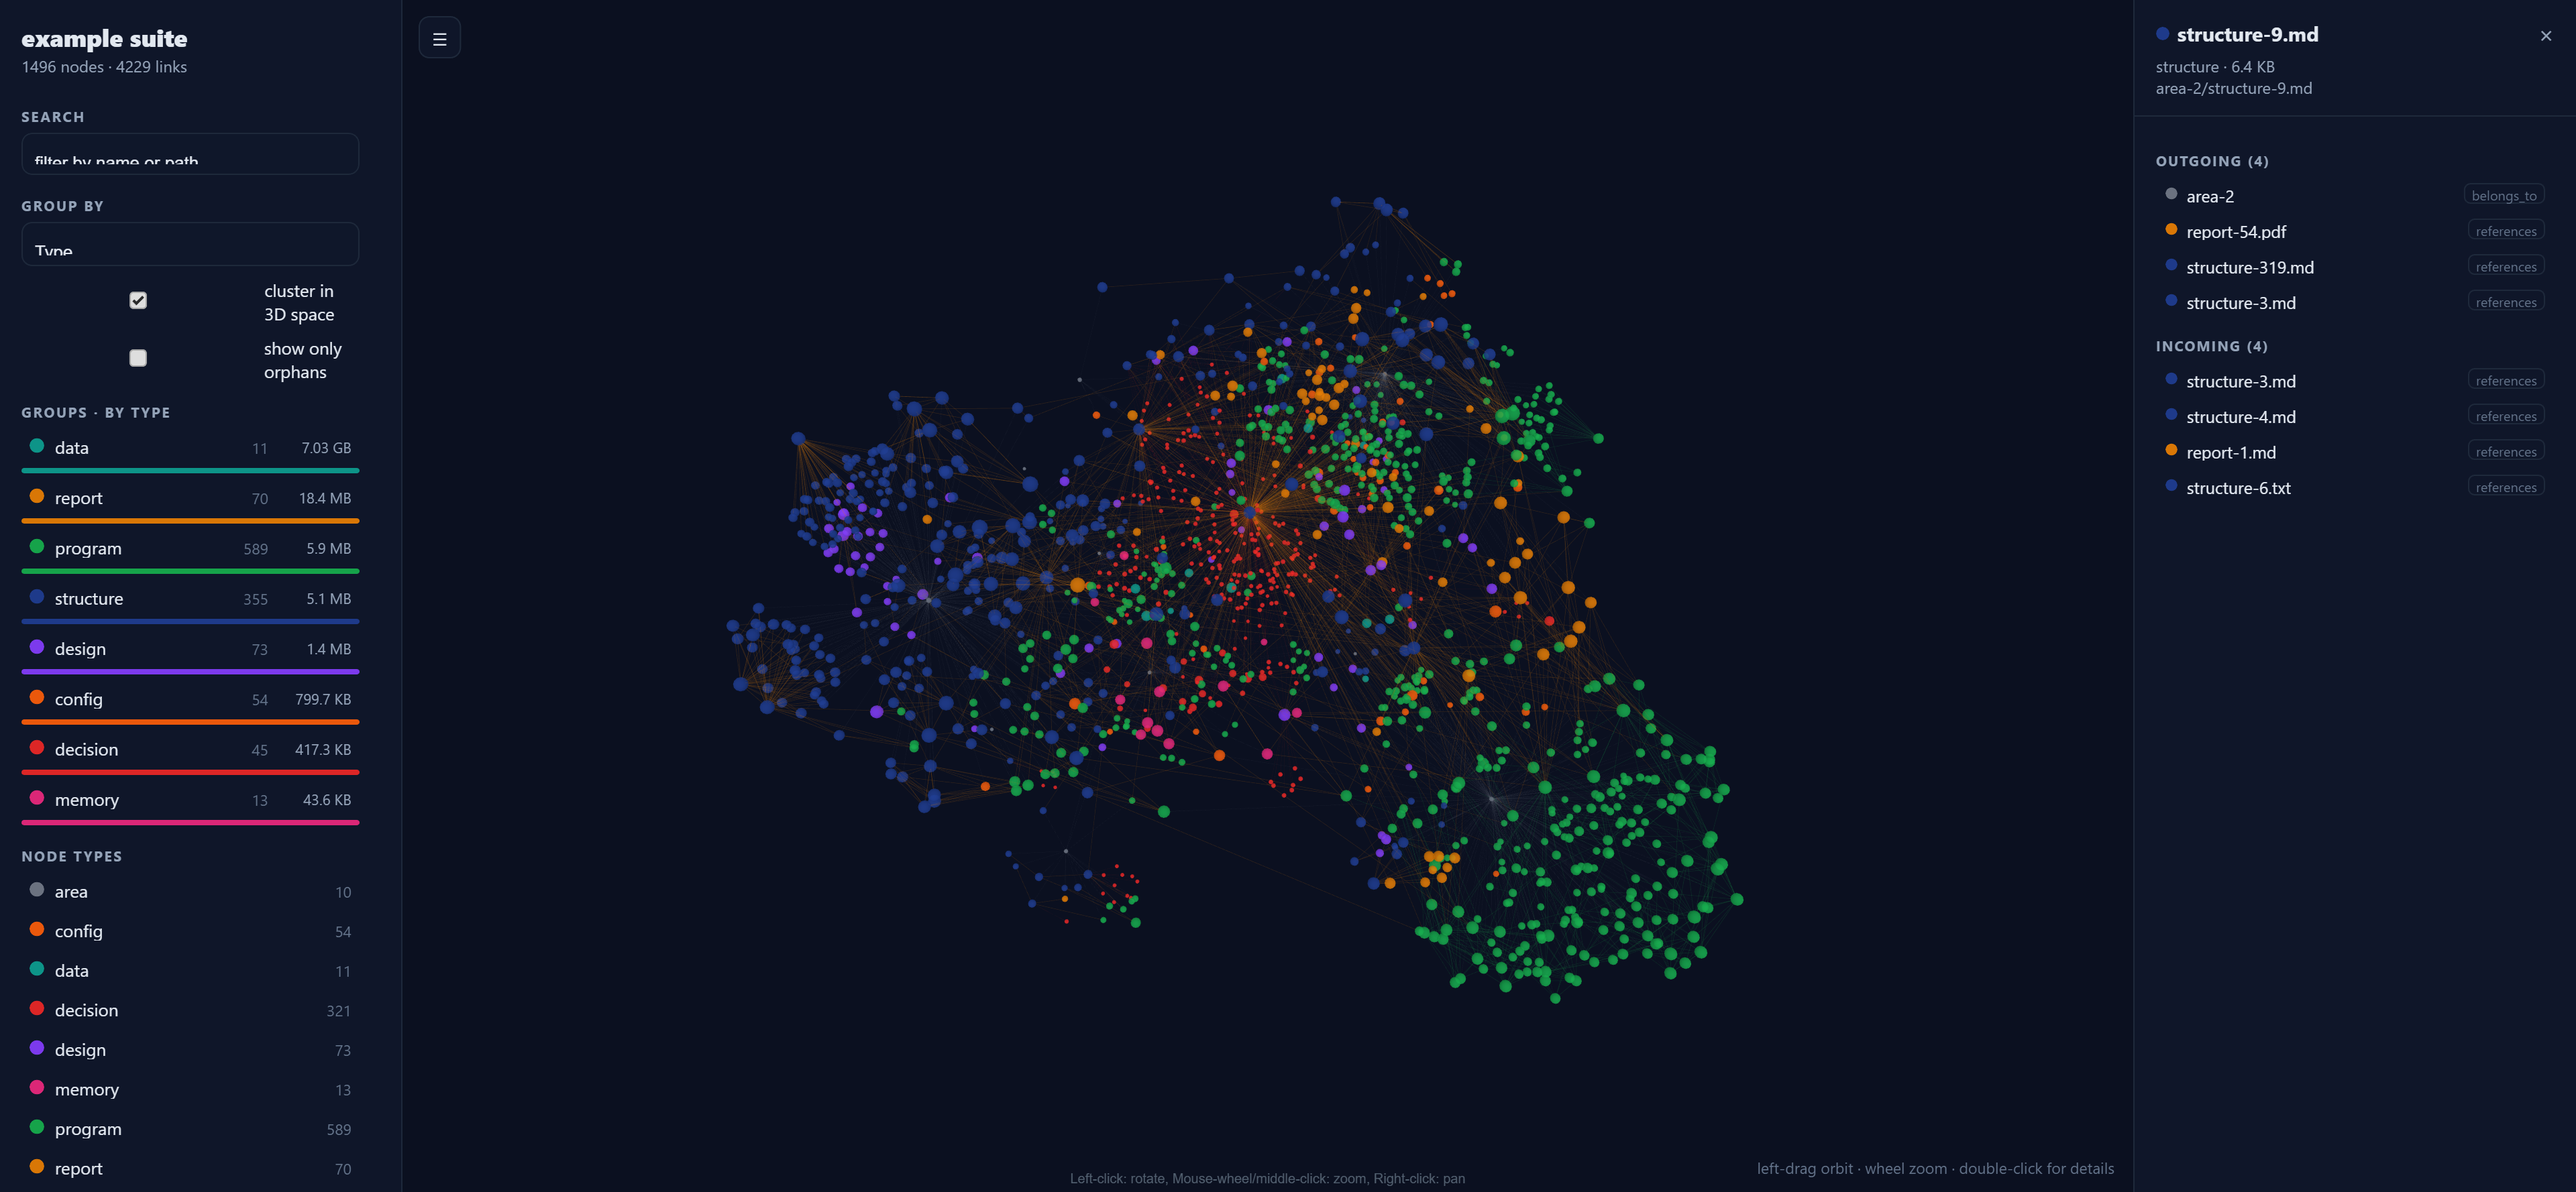
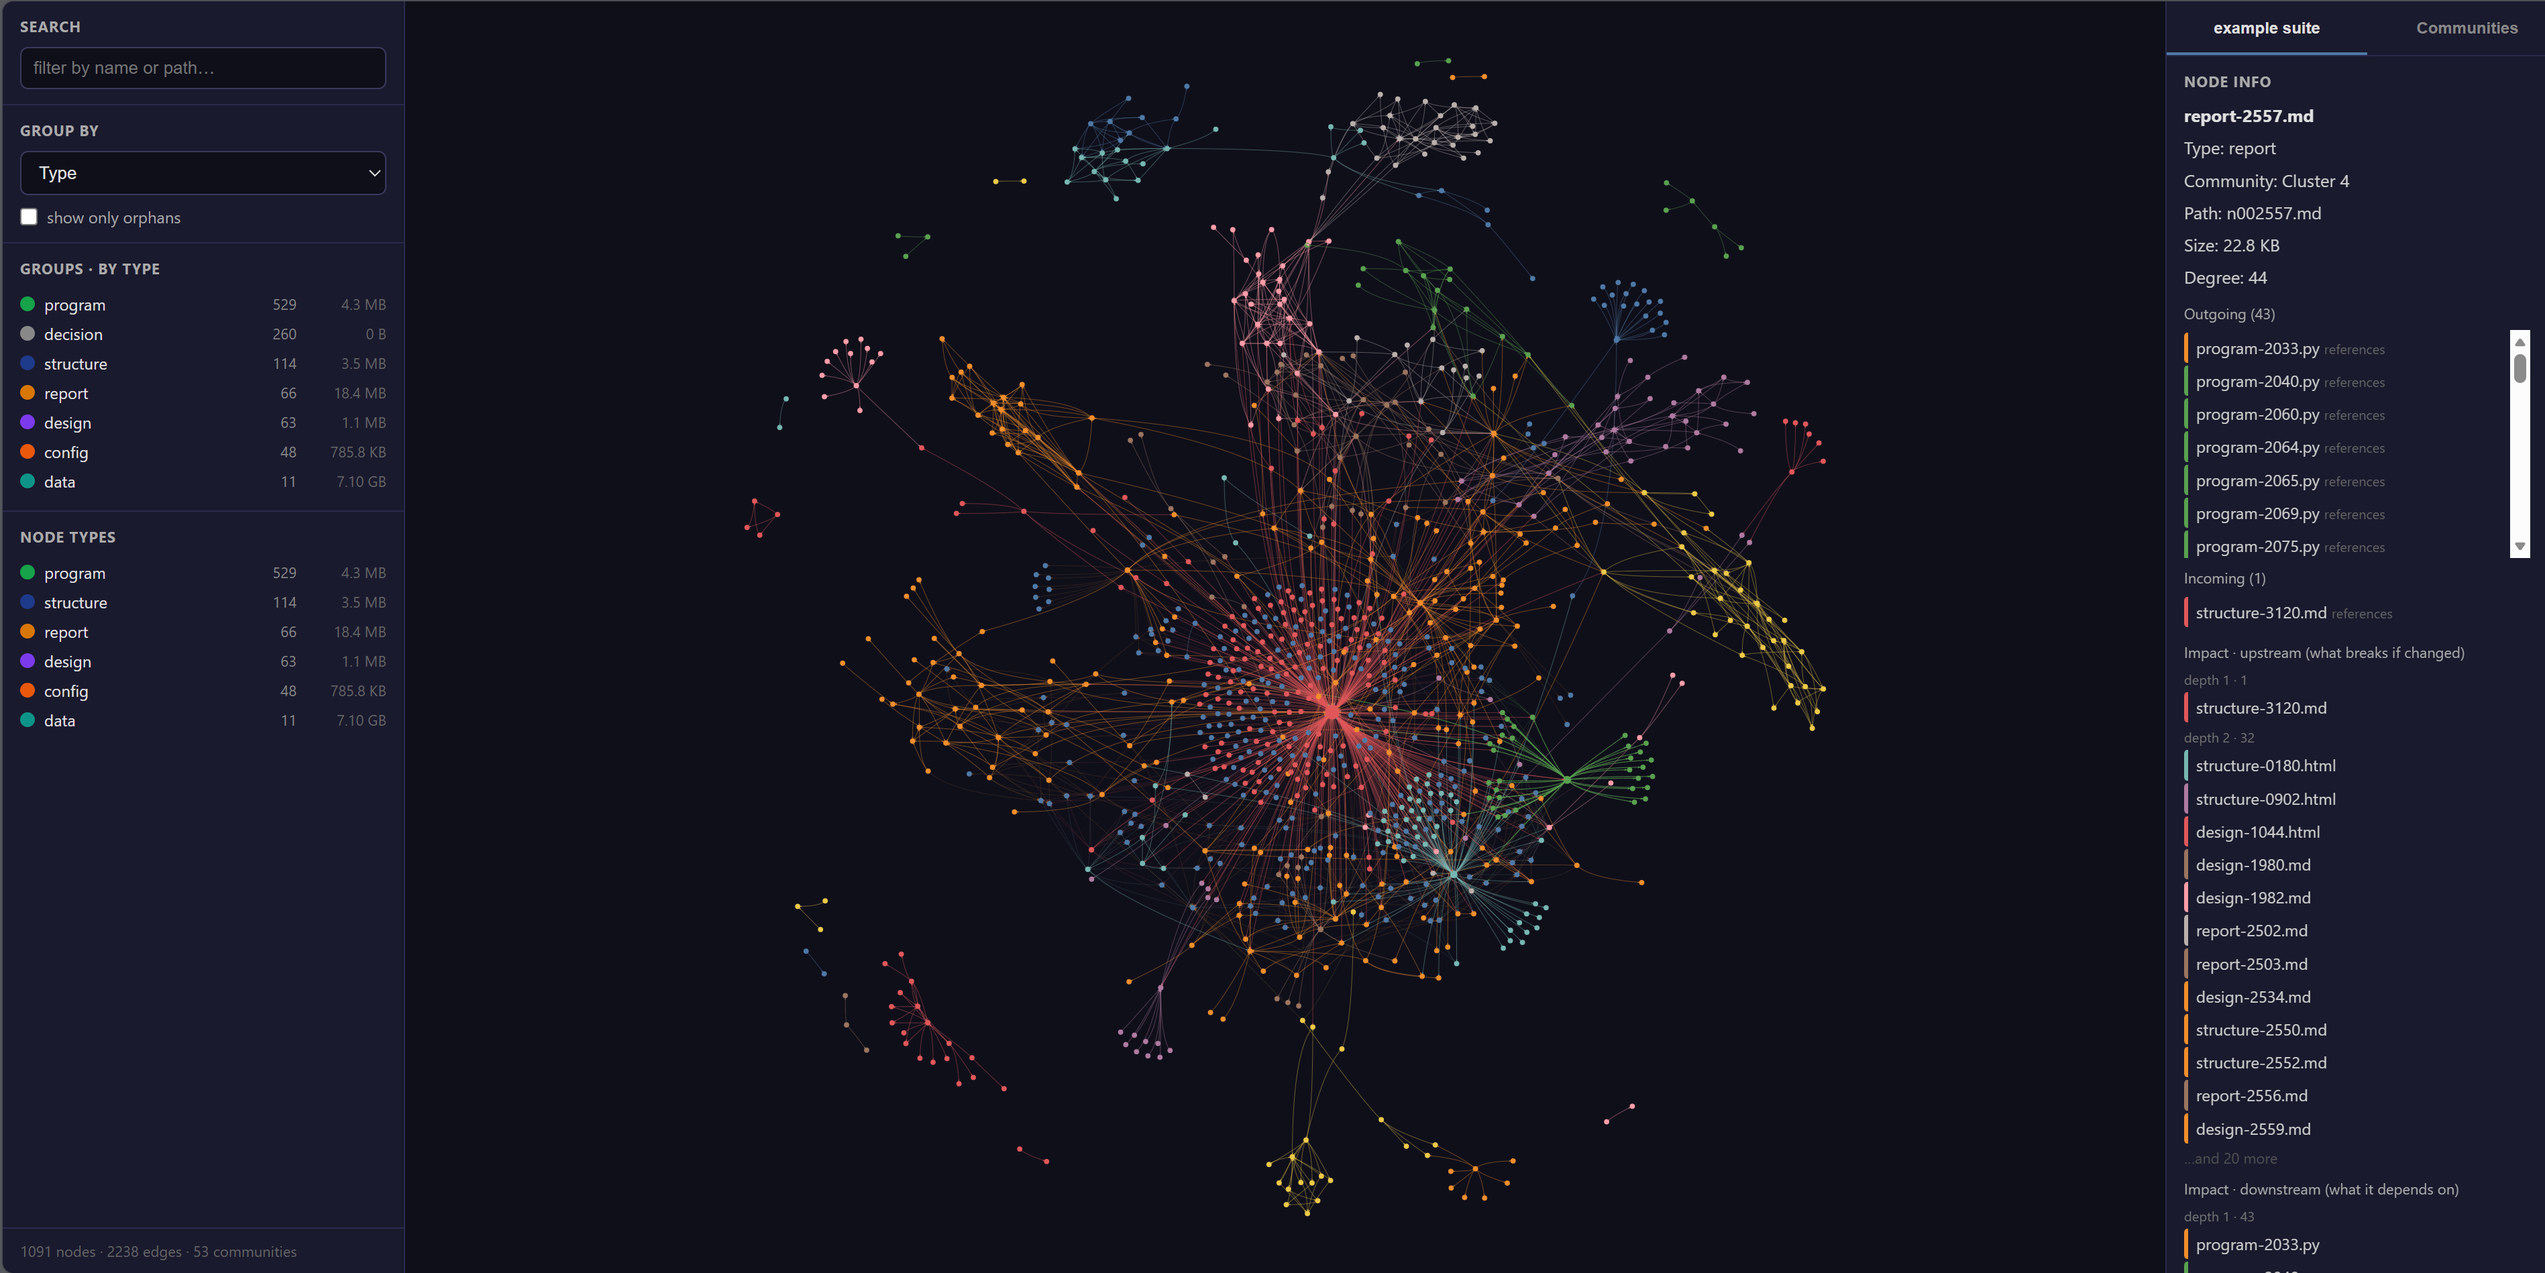
docs: refresh hero to the vis-network 2D viewer + add reproducible anonymizer
- ui-suite.png: regenerated from the new vis-network viewer (anonymized Documents graph, backbone: 1091 nodes / 53 communities); old shot was the retired 3d-force-graph layout

- docs/assets/_anon_view.py: in-repo, reproducible generator (build -> anonymize -> render) so the anonymized hero is never an untracked one-off again

diff --git a/docs/assets/_anon_view.py b/docs/assets/_anon_view.py
@@ -1,0 +1,106 @@
+#!/usr/bin/env python
+"""Build an ANONYMIZED, single-file vis-network viewer of a project's graph.
+
+Reproducible source of the README hero image (``docs/assets/ui-suite.png``): Second Brain's own
+viewer on a real, multi-project workspace with every name anonymized. Kept in-repo so it is never
+again a mystery where the anonymized view came from.
+
+Pipeline:
+  1. read ``<ROOT>/.secondbrain/graph.json``  (run ``second-brain build <ROOT>`` first)
+  2. replace every id / label / path / description / area name with neutral tokens, keeping
+     node type, file extension, byte size and the link structure intact -- so the layout,
+     communities and node sizes match the real graph, only the names are gone
+  3. write the anonymized graph to a throwaway root and render it through the project's own
+     ``second-brain view`` pipeline (vis-network, auto-backbone, offline single file)
+  4. copy the result to ``<OUT>``
+
+Usage:
+  python docs/assets/_anon_view.py <ROOT> <OUT_HTML> [PROJECT_NAME]
+  python docs/assets/_anon_view.py "C:/Users/robys/Documents" \
+         "C:/Users/robys/Documents/.secondbrain/anon.html" "example suite"
+"""
+from __future__ import annotations
+
+import json
+import os
+import sys
+from pathlib import Path
+
+
+def anonymize(graph: dict, project: str) -> dict:
+    """Return a structurally identical graph with all real names replaced by neutral tokens."""
+    nodes = sorted(graph.get("nodes", []), key=lambda n: n["id"])
+    idmap: dict[str, str] = {}
+    out_nodes: list[dict] = []
+    file_i = 0
+    area_i = 0
+    for n in nodes:
+        nid = n["id"]
+        ntype = n.get("type", "")
+        path = n.get("path")
+        if ntype == "area" or nid.startswith("area:"):
+            area_i += 1
+            new_id = f"area:A{area_i}"
+            new_label = f"Area {area_i}"
+            new_path = None
+        else:
+            file_i += 1
+            ext = os.path.splitext(path)[1] if path else ""
+            new_id = f"n{file_i:06d}{ext}"
+            new_label = f"{ntype}-{file_i:04d}{ext}"
+            # keep path None for path-less nodes (decisions, sessions) so the viewer
+            # still groups them as their own communities instead of dropping them
+            new_path = new_id if path else None
+        idmap[nid] = new_id
+        meta: dict = {}
+        size = (n.get("meta") or {}).get("size")
+        if size:
+            meta["size"] = int(size)
+        out_nodes.append({
+            "id": new_id, "type": ntype, "label": new_label,
+            "description": "", "path": new_path, "meta": meta,
+        })
+    out_edges: list[dict] = []
+    for e in graph.get("edges", []):
+        s = idmap.get(e["source"])
+        t = idmap.get(e["target"])
+        if s is None or t is None:
+            continue
+        out_edges.append({"source": s, "target": t, "type": e.get("type", "references"), "meta": {}})
+    return {"project": project, "nodes": out_nodes, "edges": out_edges}
+
+
+def main() -> int:
+    if len(sys.argv) < 3:
+        print(__doc__)
+        return 2
+    root = Path(sys.argv[1])
+    out = Path(sys.argv[2])
+    project = sys.argv[3] if len(sys.argv) > 3 else "example suite"
+    src = root / ".secondbrain" / "graph.json"
+    if not src.exists():
+        print(f"missing {src}; run first: second-brain build \"{root}\"")
+        return 1
+    graph = json.loads(src.read_text(encoding="utf-8"))
+    anon = anonymize(graph, project)
+
+    # Render directly from the anonymized Graph (same path as `second-brain view`:
+    # auto-backbone big graphs, then render the vis-network single-file viewer). We do NOT
+    # round-trip through a temp dir + the CLI, because `view` would rebuild the graph from the
+    # (empty) temp filesystem and render nothing.
+    from second_brain import query, viewer
+    from second_brain.model import Graph
+
+    g = Graph.from_dict(anon)
+    full = len(g.nodes)
+    if full > 8000:
+        g = query.backbone(g)
+        print(f"backbone: rendering {len(g.nodes)} of {full} nodes")
+    out.parent.mkdir(parents=True, exist_ok=True)
+    out.write_text(viewer.render_view(g), encoding="utf-8", newline="\n")
+    print(f"wrote {out} ({out.stat().st_size} bytes) | rendered_nodes={len(g.nodes)} of {full}")
+    return 0
+
+
+if __name__ == "__main__":
+    raise SystemExit(main())
